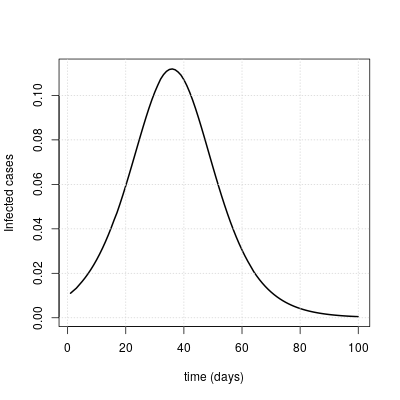
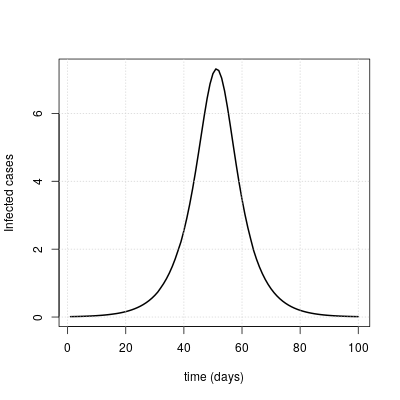
update

diff --git a/_site/index.html b/_site/index.html
@@ -5,7 +5,7 @@
     <meta charset='utf-8'>
     <meta http-equiv="X-UA-Compatible" content="IE=edge">
     <meta name="viewport" content="width=device-width,maximum-scale=2">
-    <link rel="stylesheet" type="text/css" media="screen" href="/assets/css/style.css?v=27d88001ff8ea9e26fabfedf4635e19b257c8e83">
+    <link rel="stylesheet" type="text/css" media="screen" href="/assets/css/style.css?v=0020783525e4d079b253aaffa2cacdfe83c67e0f">
 
 <!-- Begin Jekyll SEO tag v2.6.1 -->
 <title>Statistical analysis of COVID-19 epidemics | Inference and predictions on the course of the outbreak</title>
@@ -56,25 +56,29 @@
 <script type="text/javascript" charset="utf-8" src="https://vincenttam.github.io/javascripts/MathJaxLocal.js">
 </script>
 
-<h3 id="authors">Authors</h3>
+<h2 id="authors">Authors</h2>
 <p>Giovanni Diana and Diana Passaro</p>
 
 <hr />
-<p><a href="SM">Supplementary Methods</a></p>
+
+<ul>
+  <li><a href="current_state">Summary of the outbreak by country</a></li>
+  <li><a href="SM">Supplementary Methods</a></li>
+</ul>
 
 <hr />
 
 <h2 id="introduction">Introduction</h2>
 <p>Spread of COVID-19 in early 2020 has raised important concerns about the ability of national health systems to detect the positive cases, as well as the intervention rate a country is expected to put in place to contain the infection.</p>
 
-<p>Using data on desease spread and containment through the public repository <a href="https://github.com/CSSEGISandData/COVID-19">CSSEGISandData/COVID-19</a> we established a predictive model to estimate the outbreak of the infection in a given population.</p>
+<p>Using data on disease spread and containment through the public repository <a href="https://github.com/CSSEGISandData/COVID-19">CSSEGISandData/COVID-19</a> we established a predictive model to estimate the outbreak of the infection in a given population.</p>
 
 <p>In some regions of China the infection rate has significantly decreased compared to the initial exponential spread of the infection. This information can be used to build predictive models which can help other countries to estimate the extent of the outbreak.<br />
-First we modeled the number of infections over time based on the desease outbreak in China. Our model captures the initial exponential phase of the outbreak and the effect of the external intervention to contain the infection. Thus the exponential phase termimnates with a peak of maximum rate of new infected cases and then is followed by a critical period where the number of infections can decrease if the intervention remains stable.</p>
+First we modeled the number of infections over time based on the disease outbreak in China. Our model captures the initial exponential phase of the outbreak and the effect of the external intervention to contain the infection. Thus the exponential phase termimnates with a peak of maximum rate of new infected cases and then is followed by a critical period where the number of infections can decrease if the intervention remains stable.</p>
 
 <figure>
    <center><img src="Figures/Figure_stat_1.png" />
-   <figcaption> Fig. 1: Dynamics of the infection in the province of Henan, Mainland China </figcaption></center>
+   <figcaption> Fig. 1: Dynamics of the infection in Italy (last update 12/02/2020) </figcaption></center>
 </figure>
 
 <h2 id="the-model">The model</h2>
@@ -150,7 +154,7 @@ The lack of observations at early stages is captured by the factor $p(t)$ which 
 <h2 id="statistical-inference-and-model-predictions">Statistical inference and model predictions</h2>
 <p>By using the available daily reported cases in the public repository <a href="https://github.com/CSSEGISandData/COVID-19">CSSEGISandData/COVID-19</a> we can estimate the parameters of the model from the data for each country/region affected by the infection (see current state <a href="current_state">here</a>). Knowing the model parameters allow us to draw predictions on how the epidemics will evolve. For this analysis we assume that the rate of infection $\lambda$ is the same for all countries whereas all the other model parameters are country-dependent. This allows us to exploit the worldwide data to strengthen the predictive power of the model.</p>
 
-<p>The framework of statistical inference allows us to estimate the model parameters and make predictions while taking into account statistical uncertainties derived from the data and the prior uncertainty. We performed a global analysis on 255 countries included in the CSSE dataset [1].</p>
+<p>The framework of statistical inference allows us to estimate the model parameters and make predictions while taking into account statistical uncertainties derived from the data and the prior uncertainty. We performed a global analysis on 404 areas included in the CSSE dataset [1].</p>
 
 <p>The interactive chart below gives an overview of the course of the infection for each country. Data are updated every day.</p>
 

diff --git a/_site/about/index.html b/_site/about/index.html
@@ -1,4 +1,46 @@
-<p>This is the base Jekyll theme. You can find out more info about customizing your Jekyll theme, as well as basic Jekyll usage documentation at <a href="https://jekyllrb.com/">jekyllrb.com</a></p>
+<!DOCTYPE html>
+<html lang="en-US">
+
+  <head>
+    <meta charset='utf-8'>
+    <meta http-equiv="X-UA-Compatible" content="IE=edge">
+    <meta name="viewport" content="width=device-width,maximum-scale=2">
+    <link rel="stylesheet" type="text/css" media="screen" href="/assets/css/style.css?v=0020783525e4d079b253aaffa2cacdfe83c67e0f">
+
+<!-- Begin Jekyll SEO tag v2.6.1 -->
+<title>About | Statistical analysis of COVID-19 epidemics</title>
+<meta name="generator" content="Jekyll v3.8.5" />
+<meta property="og:title" content="About" />
+<meta property="og:locale" content="en_US" />
+<meta name="description" content="Inference and predictions on the course of the outbreak" />
+<meta property="og:description" content="Inference and predictions on the course of the outbreak" />
+<link rel="canonical" href="http://localhost:4000/about/" />
+<meta property="og:url" content="http://localhost:4000/about/" />
+<meta property="og:site_name" content="Statistical analysis of COVID-19 epidemics" />
+<script type="application/ld+json">
+{"@type":"WebSite","url":"http://localhost:4000/about/","headline":"About","name":"Statistical analysis of COVID-19 epidemics","description":"Inference and predictions on the course of the outbreak","@context":"https://schema.org"}</script>
+<!-- End Jekyll SEO tag -->
+
+  </head>
+
+  <body>
+
+    <!-- HEADER -->
+    <div id="header_wrap" class="outer">
+        <header class="inner">
+          <a id="forkme_banner" href="https://github.com/giovannidiana/COVID-19">View on GitHub</a>
+
+          <h1 id="project_title">Statistical analysis of COVID-19 epidemics</h1>
+          <h2 id="project_tagline">Inference and predictions on the course of the outbreak </h2>
+
+          
+        </header>
+    </div>
+
+    <!-- MAIN CONTENT -->
+    <div id="main_content_wrap" class="outer">
+      <section id="main_content" class="inner">
+        <p>This is the base Jekyll theme. You can find out more info about customizing your Jekyll theme, as well as basic Jekyll usage documentation at <a href="https://jekyllrb.com/">jekyllrb.com</a></p>
 
 <p>You can find the source code for Minima at GitHub:
 <a href="https://github.com/jekyll">jekyll</a> /
@@ -8,3 +50,20 @@
 <a href="https://github.com/jekyll">jekyll</a> /
 <a href="https://github.com/jekyll/jekyll">jekyll</a></p>
 
+
+      </section>
+    </div>
+
+    <!-- FOOTER  -->
+    <div id="footer_wrap" class="outer">
+      <footer class="inner">
+        
+        <p class="copyright">Statistical analysis of COVID-19 epidemics maintained by <a href="https://github.com/giovannidiana">giovannidiana</a></p>
+        
+        <p>Published with <a href="https://pages.github.com">GitHub Pages</a></p>
+      </footer>
+    </div>
+
+    
+  </body>
+</html>

diff --git a/_site/404.html b/_site/404.html
@@ -5,7 +5,7 @@
     <meta charset='utf-8'>
     <meta http-equiv="X-UA-Compatible" content="IE=edge">
     <meta name="viewport" content="width=device-width,maximum-scale=2">
-    <link rel="stylesheet" type="text/css" media="screen" href="/assets/css/style.css?v=27d88001ff8ea9e26fabfedf4635e19b257c8e83">
+    <link rel="stylesheet" type="text/css" media="screen" href="/assets/css/style.css?v=0020783525e4d079b253aaffa2cacdfe83c67e0f">
 
 <!-- Begin Jekyll SEO tag v2.6.1 -->
 <title>Statistical analysis of COVID-19 epidemics | Inference and predictions on the course of the outbreak</title>

diff --git a/index.md b/index.md
@@ -13,7 +13,6 @@ mathjax: true
 * [Summary of the outbreak by country](current_state)
 * [Supplementary Methods](SM)
 
-
 ***
 
 ## Introduction 
